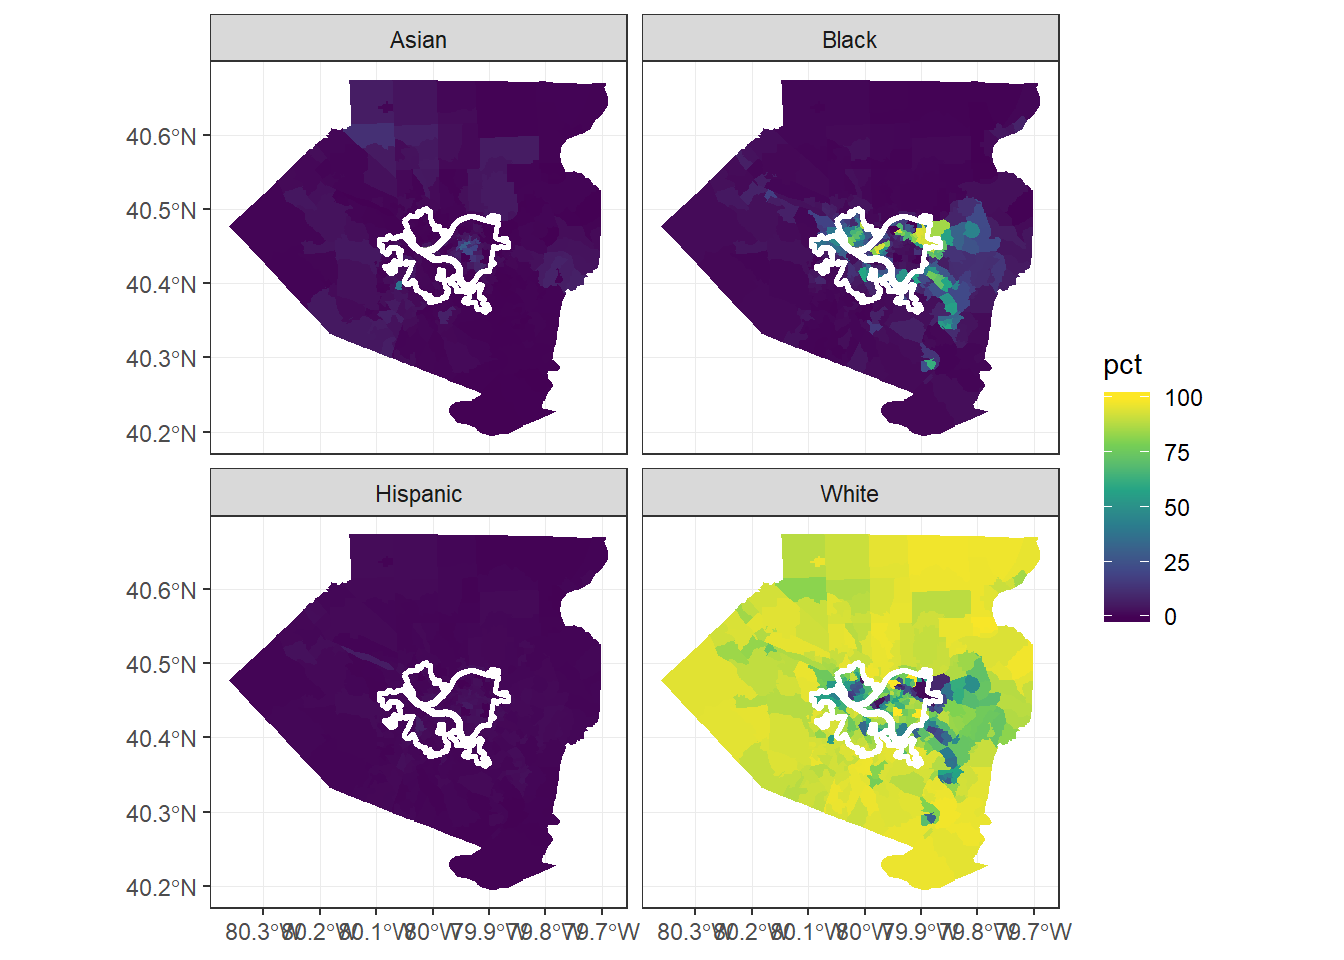
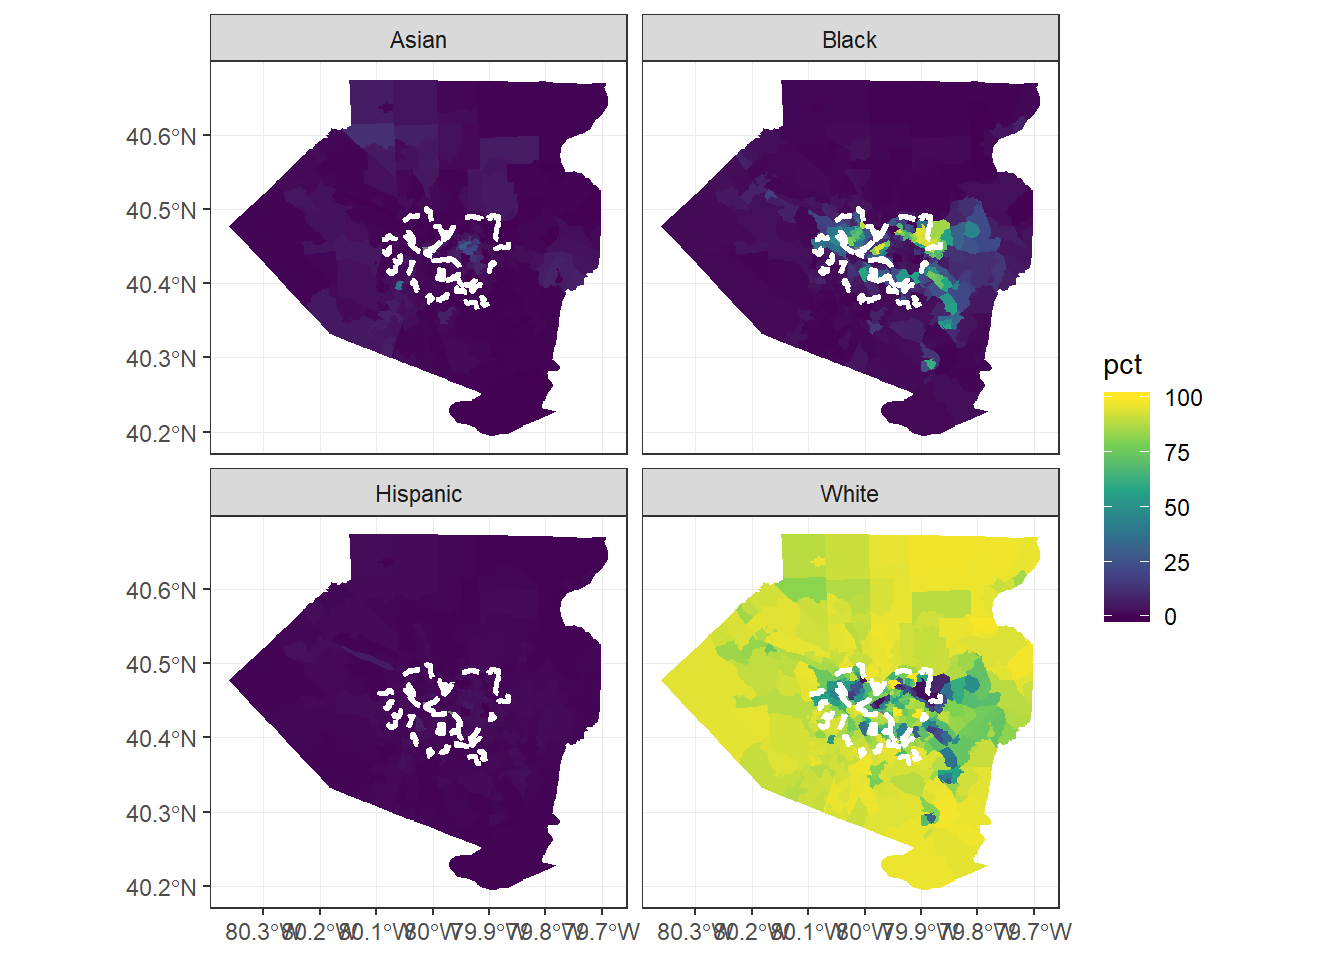
served site

diff --git a/content/post/2019-05-30-map-census-data-with-r.html b/content/post/2019-05-30-map-census-data-with-r.html
@@ -10,6 +10,7 @@ tags: []
 <script src="/rmarkdown-libs/kePrint/kePrint.js"></script>
 
 
+<p>This talk was presented on May 30th, 2019 at <a href="https://www.meetup.com/codeforpgh/">Code For Pittsburgh</a>.</p>
 <p>Before we dive in, this presentation assumes that the user has basic familiarity with <code>tidyverse</code>, mainly <code>dplyr</code>. Knowing how to use <code>%&gt;%</code> will be very helpful.</p>
 <p>How to install packages:</p>
 <pre class="r"><code>install.packages(&quot;package_name&quot;)</code></pre>
@@ -53,7 +54,7 @@ options(tigris_use_cache = TRUE,
 </div>
 <div id="sf" class="section level3">
 <h3>{sf}</h3>
-<p><a href="https://r-spatial.github.io/sf/articles/sf1.html">simple features</a> makes it easy to work with polygon data in R. It uses familiar the <code>tidyverse</code> framework: everything is a tibble, and it uses <code>%&gt;%</code>.</p>
+<p><a href="https://r-spatial.github.io/sf/articles/sf1.html">simple features</a> makes it easy to work with polygon data in R. It uses the familiar <code>tidyverse</code> framework: everything is a tibble, and it uses <code>%&gt;%</code>.</p>
 <p><code>ggplot2::geom_sf()</code> makes it easy to plot <code>sf</code> polygons.</p>
 <p><code>sf</code> can also do spatial calculations such as <code>st_contains</code>, <code>st_intersects</code>, and <code>st_boundary</code>.</p>
 </div>
@@ -209,7 +210,7 @@ allegheny_tracts &lt;- get_decennial(geography = &quot;tract&quot;, variables = 
 <pre class="r"><code>allegheny_tracts %&gt;% 
   ggplot() +
     geom_sf(aes(fill = pct), color = NA) +
-    geom_sf(data = city_pgh, color = &quot;white&quot;, line_type = 2, size = 1, alpha = 0) +
+    geom_sf(data = city_pgh, color = &quot;white&quot;, linetype = 2, size = 1, alpha = 0) +
     facet_wrap(~variable) + 
     scale_fill_viridis_c()</code></pre>
 <p><img src="/post/2019-05-30-map-census-data-with-r_files/figure-html/unnamed-chunk-20-1.png" width="672" /></p>
@@ -581,6 +582,11 @@ North Oakland
   geom_sf()</code></pre>
 <p><img src="/post/2019-05-30-map-census-data-with-r_files/figure-html/unnamed-chunk-25-1.png" width="672" /></p>
 <p>Calculate the center of each ward. We will use this to label the wards on the map:</p>
+<pre class="r"><code>ward_labels &lt;- wards %&gt;% 
+  st_centroid() %&gt;% 
+  st_coordinates() %&gt;% 
+  as_tibble() %&gt;% 
+  clean_names()</code></pre>
 <table class="table" style="margin-left: auto; margin-right: auto;">
 <thead>
 <tr>
@@ -650,16 +656,16 @@ y
 ## proj4string:    +proj=longlat +datum=WGS84 +no_defs
 ## First 10 features:
 ##    objectid wards wards_id ward wardtext shape_are shape_len     n
-## 1         2     3        0   19       19 0.0011446    0.2389 27093
-## 2         3     4        0   24       24 0.0001901    0.0734  5303
-## 3         4     5        0   24       24 0.0000210    0.0274  5303
-## 4         5     6        0   20       20 0.0011755    0.2888 17236
-## 5         6     7        0   21       21 0.0002074    0.0619  3800
-## 6         7     8        0   23       23 0.0001031    0.0480  4993
-## 7         8     9        0   22       22 0.0001967    0.0593  4599
-## 8         9    10        0   26       26 0.0009079    0.1915 10963
-## 9        10    11        0   27       27 0.0005849    0.1173 10079
-## 10       11    12        0   27       27 0.0000634    0.0400 10079
+## 1         2     3        0   19       19 0.0011446    0.2389 27136
+## 2         3     4        0   24       24 0.0001901    0.0734  5311
+## 3         4     5        0   24       24 0.0000210    0.0274  5311
+## 4         5     6        0   20       20 0.0011755    0.2888 17263
+## 5         6     7        0   21       21 0.0002074    0.0619  3801
+## 6         7     8        0   23       23 0.0001031    0.0480  4996
+## 7         8     9        0   22       22 0.0001967    0.0593  4606
+## 8         9    10        0   26       26 0.0009079    0.1915 10984
+## 9        10    11        0   27       27 0.0005849    0.1173 10101
+## 10       11    12        0   27       27 0.0000634    0.0400 10101
 ##                          geometry   x    y
 ## 1  POLYGON ((-80 40.4, -80 40.... -80 40.4
 ## 2  POLYGON ((-80 40.5, -80 40.... -80 40.5
